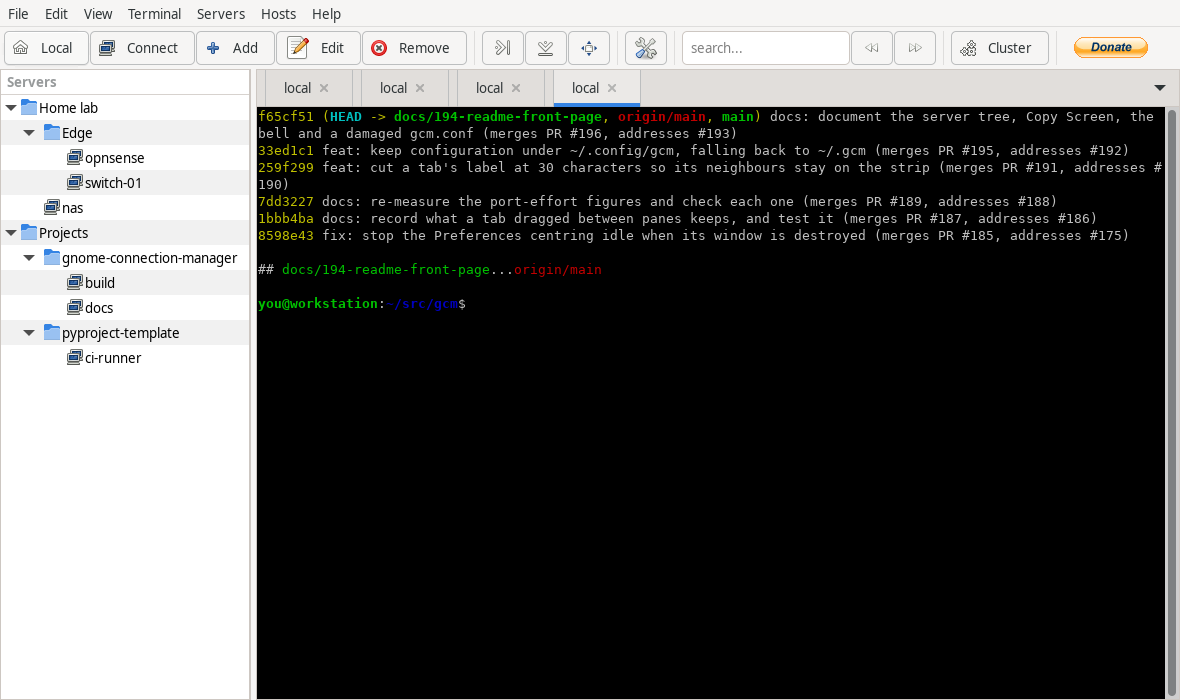
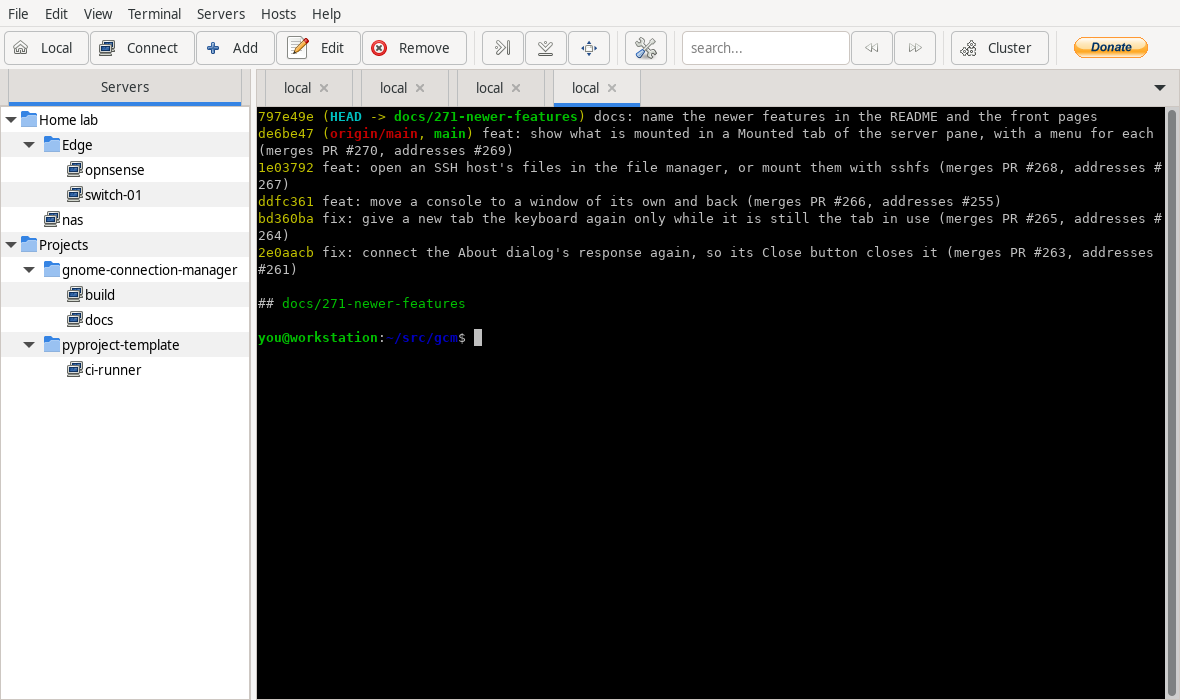
docs: name the newer features in the README and the front pages, and the packages they use (merges PR #272, addresses #271)
* docs: name the newer features in the README and the front pages

The guides gained a section for each feature as it landed, but the pages
that introduce GCM did not follow. The README's feature list now has a
host's files over SFTP and SSHFS with the Mounted tab, commands on this
computer, reconnecting a dropped session, Hide input in the cluster window,
snippets and console windows. A new table lists the optional programs those
features use, by Ubuntu 24.04 package, each package's binary checked with
apt-get download and dpkg -c.

The README, docs/index.md, AGENTS.md and the two guides' own descriptions
and opening paragraphs name the guides' current sections, and the table of
contents is regenerated from them. docs/index.md no longer calls GCM an SSH
and telnet manager alone.

docs/PROJECT_STRUCTURE.md and docs/DEVELOPING.md showed urlregex.py as the
only module under utils/; they show the layout as it is. DEVELOPING.md says
which packages the full test suite uses, matching CI's, what each is for and
what is skipped without it, and how to run the mount tests with an sshd
unpacked rather than installed, which was run as written.

Addresses #271

Claude-Session: https://claude.ai/code/session_01YPxNbzzpbdwWdvw6sU5RGL

* docs: retake the README screenshot with the server pane's Servers tab

The screenshot showed the server tree's column header, which the Servers
tab replaced. It is retaken as it was first taken: no window manager on a
[…]

Changed region(s): [[0.0, 0.09, 0.9763, 0.54], [0.2136, 0.48, 0.4271, 0.51], [0.2136, 0.42, 0.3966, 0.45]]

diff --git a/tests/test_docs.py b/tests/test_docs.py
@@ -12,6 +12,7 @@ import gettext
 import inspect
 import logging
 import re
+import tomllib
 import types
 from pathlib import Path
 
@@ -458,6 +459,34 @@ def test_no_doc_claims_the_test_suite_is_still_to_be_written():
 
     assert "- [ ] Add comprehensive test suite" not in structure, (
         "PROJECT_STRUCTURE.md still lists the test suite as unwritten"
+    )
+
+
+# The documents that say which Python GCM needs.
+_PYTHON_FLOOR_DOCS = (
+    "README.md",
+    "docs/index.md",
+    "docs/DEVELOPING.md",
+    "docs/PROJECT_STRUCTURE.md",
+)
+
+
+def test_every_python_floor_a_doc_states_is_pyprojects():
+    """`docs/PROJECT_STRUCTURE.md` said "Python: 3.8+" long after the floor went to 3.12,
+    which is what `pyproject.toml` requires and the README says."""
+    repo = Path(__file__).resolve().parents[1]
+    required = tomllib.loads((repo / "pyproject.toml").read_text())["project"]["requires-python"]
+    floor = re.fullmatch(r">=\s*(\d+\.\d+)", required)
+    assert floor, f"requires-python is {required!r}, not a floor this test can read"
+    stated: dict[str, list[str]] = {}
+    for relative in _PYTHON_FLOOR_DOCS:
+        body = (repo / relative).read_text(encoding="utf-8")
+        for version in re.findall(r"Python\W{0,6}(\d+\.\d+)\+", body):
+            stated.setdefault(version, []).append(relative)
+
+    assert stated, "no document says which Python GCM needs"
+    assert set(stated) == {floor.group(1)}, (
+        f"pyproject.toml requires Python {floor.group(1)}+, but the documents say {stated}"
     )
 
 

diff --git a/README.md b/README.md
@@ -1,8 +1,9 @@
 # Gnome Connection Manager (GCM)
 
-A tabbed SSH, telnet and local-shell manager for GTK 3 desktops. Keep your hosts in a
-folder tree, open them in tabs and split panes, and get sensible terminal behaviour —
-copy and paste that does not fight you, session logging, and shortcuts you can change.
+A tabbed SSH, telnet and local-shell manager for GTK 3 desktops, which keeps remote
+desktops, web consoles and any command line as hosts too. Keep your hosts in a folder
+tree, open them in tabs and split panes, and get sensible terminal behaviour — copy and
+paste that does not fight you, session logging, and shortcuts you can change.
 
 ![The GCM window: a folder tree of hosts on the left, four console tabs on the right](docs/images/screenshot.png)
 
@@ -26,7 +27,15 @@ Requires Python 3.12+ and GTK 3.
 - Passwords stored encrypted, plus private keys, SSH agent forwarding, X11 forwarding,
   compression and a keep-alive interval
 - Port forwarding per host: local forwards and dynamic (SOCKS) forwards, several at a time
-- Cluster mode: type once and send it to every console you have selected
+- An SSH host's files, opened over SFTP in your file manager, or mounted with SSHFS at
+  `~/mnt/<host name>`. A mounted host is ticked in the tree, and a **Mounted** tab beside
+  the tree lists every mount, to open or unmount
+- Commands run on this computer before connecting and after disconnecting, such as a VPN
+  brought up and taken down, with the host's values filled in
+- A dropped session reconnected by itself, a set number of times, when Preferences asks
+  for it
+- Cluster mode: type once and send it to every console you have selected, with **Hide
+  input** for a password
 - Commands sent automatically after login, with a delay syntax, and a checkbox that turns
   them off without discarding them
 
@@ -48,6 +57,10 @@ Requires Python 3.12+ and GTK 3.
   your editor
 - Drop files on a terminal to insert shell-quoted paths
 - Per-terminal font zoom, and tab labels that follow the program's title
+- Snippets: text you keep by name, in folders, typed into a console from a menu, a search
+  as you type, or a key of its own, with the host's values filled in and any value it
+  needs asked for first
+- A console moved to a window of its own, to keep it on another monitor, and back again
 - A tab you are not watching is marked when its output stops, when it rings the bell, or
   when its session ends, so an agent CLI working in another tab shows when it is done
 - Every shortcut configurable, plus custom byte sequences bound to keys of your choice
@@ -58,10 +71,13 @@ Requires Python 3.12+ and GTK 3.
 
 - [Using terminals in GCM](docs/TERMINAL-USAGE.md) — selection when an application has
   taken the mouse, what Copy All copies, pasting, session recording and transcripts, OSC 52,
-  the buffer viewer, tab titles, tabs that need your attention, font zoom, the shortcut
-  table, and what GCM does with a `gcm.conf` it cannot read
+  the buffer viewer, tab titles, consoles in windows of their own, typing into several
+  consoles at once, tabs that need your attention, sessions that end or drop, font zoom,
+  the shortcut table, snippets, and what GCM does with a `gcm.conf` it cannot read
 - [Hosts and folders in GCM](docs/HOSTS-AND-FOLDERS.md) — the server tree: making and moving
-  folders, putting it in the order you want, and what export and import carry
+  folders, putting it in the order you want, and what export and import carry; the host
+  dialog, commands on this computer, RDP, VNC, web and command hosts, and a host's files
+  over SFTP and SSHFS
 - [Developing](docs/DEVELOPING.md) and [Project structure](docs/PROJECT_STRUCTURE.md) — how
   to set up an environment, and what lives where
 - [Architecture decisions](docs/decisions/) — the records behind host ids and the folder tree
@@ -109,6 +125,21 @@ sudo apt install ./gnome-connection-manager_*_all.deb
 | `gir1.2-vte-2.91` | VTE terminal widget |
 | `python3-pyaes` | AES encryption for stored passwords |
 | `expect` | SSH password injection |
+
+### Optional programs
+
+Each is used by one kind of host or one feature, and GCM says what is missing when it is
+needed. Only `gir1.2-gtk-vnc-2.0` is installed with GCM, as a package it recommends, and
+not when apt is set to leave recommendations out.
+
+| Package (Ubuntu 24.04) | For |
+|---|---|
+| `freerdp3-x11` or `freerdp2-x11` | RDP hosts, through `xfreerdp3` or `xfreerdp` |
+| `gir1.2-gtk-vnc-2.0` | VNC hosts drawn in their tab |
+| `tigervnc-viewer` or `xtightvncviewer` | VNC hosts without gtk-vnc, through `xtigervncviewer` or `xtightvncviewer` |
+| `xdg-utils` | Web hosts and links, opened in your browser through `xdg-open` |
+| `sshfs` | **Mount with SSHFS** |
+| `nautilus` and `gvfs-backends`, or another file manager that opens `sftp:` addresses | **Open in File Manager**, and **Open Folder** and **Open over SFTP** in the **Mounted** tab |
 
 ---
 

diff --git a/docs/TABLE_OF_CONTENTS.md b/docs/TABLE_OF_CONTENTS.md
@@ -10,8 +10,8 @@ Complete index of all documentation, organized by audience and as a full alphabe
 ### Using GCM
 <!-- BEGIN:tag=gcm-guide -->
 - [Gnome Connection Manager](index.md) - What GCM is, and where to start reading
-- [Hosts and folders in GCM](HOSTS-AND-FOLDERS.md) - The server tree: making and moving folders, putting it in the order you want, what export and import carry, remote desktop hosts, and a host's files
-- [Using terminals in GCM](TERMINAL-USAGE.md) - Selection, copy and paste, session recording, OSC 52, the buffer viewer, tab titles, consoles in windows of their own, tabs that need your attention, font zoom, the shortcut table, a host's first connection, and what GCM does with a gcm.conf it cannot read
+- [Hosts and folders in GCM](HOSTS-AND-FOLDERS.md) - The server tree: making and moving folders, putting it in the order you want, and what export and import carry; the host dialog, commands on this computer, RDP, VNC, web and command hosts, and a host's files over SFTP and SSHFS
+- [Using terminals in GCM](TERMINAL-USAGE.md) - Selection, copy and paste, session recording, OSC 52, the buffer viewer, tab titles, consoles in windows of their own, typing into several consoles at once, tabs that need your attention, sessions that end or drop, font zoom, the shortcut table, snippets, a host's first connection, and what GCM does with a gcm.conf it cannot read
 <!-- END:tag=gcm-guide -->
 
 ### Working on GCM
@@ -111,7 +111,7 @@ this project's tooling is vendored from. "Users" here means users of the templat
 - [GitHub Repository Settings](development/github-repository-settings.md) - Complete reference for all GitHub repository settings the template expects
 - [Gnome Connection Manager](index.md) - What GCM is, and where to start reading
 - [Gnome Connection Manager - Modern Project Structure](PROJECT_STRUCTURE.md) - What lives where, and where the modernization work stands
-- [Hosts and folders in GCM](HOSTS-AND-FOLDERS.md) - The server tree: making and moving folders, putting it in the order you want, what export and import carry, remote desktop hosts, and a host's files
+- [Hosts and folders in GCM](HOSTS-AND-FOLDERS.md) - The server tree: making and moving folders, putting it in the order you want, and what export and import carry; the host dialog, commands on this computer, RDP, VNC, web and command hosts, and a host's files over SFTP and SSHFS
 - [install_tools Framework](development/install-tools-framework.md)
 - [Keeping Up to Date](template/updates.md) - Stay in sync with improvements to the pyproject-template
 - [LSP Tool and Diagnostic Noise](development/ai/lsp-tool.md) - What the LSP tool gives an AI agent, why pyright diagnostics arrive stale, and the two opt-outs agents can flip on themselves
@@ -125,7 +125,7 @@ this project's tooling is vendored from. "Users" here means users of the templat
 - [Template Management](template/manage.md) - Unified interface for creating projects, checking updates, and syncing
 - [Template Tools Reference](template/tools-reference.md) - Complete reference for all template tools in tools/pyproject_template/
 - [Tooling Roles and Architectural Boundaries](development/tooling-roles.md) - What each tool is for, who uses it, and where runtime code ends and dev tooling begins
-- [Using terminals in GCM](TERMINAL-USAGE.md) - Selection, copy and paste, session recording, OSC 52, the buffer viewer, tab titles, consoles in windows of their own, tabs that need your attention, font zoom, the shortcut table, a host's first connection, and what GCM does with a gcm.conf it cannot read
+- [Using terminals in GCM](TERMINAL-USAGE.md) - Selection, copy and paste, session recording, OSC 52, the buffer viewer, tab titles, consoles in windows of their own, typing into several consoles at once, tabs that need your attention, sessions that end or drop, font zoom, the shortcut table, snippets, a host's first connection, and what GCM does with a gcm.conf it cannot read
 - [Using This Template](template/index.md) - Overview of using pyproject-template for your Python projects
 <!-- END:all -->
 

diff --git a/docs/PROJECT_STRUCTURE.md b/docs/PROJECT_STRUCTURE.md
@@ -21,23 +21,44 @@ gnome-connection-manager/
 ├── .python-version         # Pin Python version (3.12.3)
 ├── .gitignore             # Comprehensive Python gitignore
 ├── dodo.py                # Task runner entry point (doit)
-├── DEVELOPING.md          # Developer guide
+├── AGENTS.md              # Notes for contributors and coding agents, module by module
 ├── src/
 │   └── gnome_connection_manager/
 │       ├── __init__.py           # Package root
 │       ├── __main__.py           # Entry point
 │       ├── main.py               # Application launcher
-│       ├── app.py                # Main application code
+│       ├── app.py                # Main application code: windows, dialogs, consoles
+│       ├── relay.py              # PTY relay for OSC 52 and raw recording, its own process
 │       ├── ui/                   # UI components (future)
-│       └── utils/
-│           └── urlregex.py
+│       └── utils/                # Logic with no widgets in it, tested without a display
+│           ├── activity.py       # When a console busy out of sight has gone quiet
+│           ├── configfile.py     # Reading gcm.conf and an export; what a save keeps
+│           ├── configpaths.py    # Which directory holds gcm.conf
+│           ├── connections.py    # The connection types, one class per kind of host
+│           ├── crypto.py         # Encryption of stored passwords
+│           ├── folders.py        # The folder tree hosts are filed under
+│           ├── hosts.py          # The host record, read from and written to gcm.conf
+│           ├── logpaths.py       # Session log names and layout, and tab labels
+│           ├── osc52.py          # OSC 52 clipboard writes found in a byte stream
+│           ├── placeholders.py   # A host's values filled into a command
+│           ├── remotefiles.py    # A host's files: its sftp:// address, sshfs mounts
+│           ├── shortcuts.py      # Custom keys, font scale, a snippet's key
+│           ├── snippets.py       # The snippet library
+│           ├── transcript.py     # A readable transcript from a raw recording
+│           ├── urlregex.py       # Link and file:line patterns
+│           └── vtehtml.py        # VTE's HTML export, for the buffer viewer
 ├── data/                  # Non-Python assets
 │   ├── ui/
 │   │   └── gnome-connection-manager.glade
 │   ├── scripts/
-│   │   └── ssh.expect
+│   │   ├── ssh.expect     # Types a stored password for ssh, telnet and FreeRDP
+│   │   └── gcm-askpass    # ssh's askpass, for a mount with a stored password
 │   ├── style.css
 │   └── icon.png
+├── docs/                  # The guides, this page, and the decision records
+├── tests/                 # The pytest suite
+├── tools/                 # build_mo.py, generate_doc_toc.py, the doit tasks (GCM's in
+│                          # doit/gcm.py), and the vendored hooks and template tooling
 └── lang/                  # Translations
 ```
 
@@ -123,7 +144,7 @@ sudo apt install python3-gi python3-gi-cairo gir1.2-gtk-3.0 gir1.2-vte-2.91 expe
 sudo dnf install python3-gobject gtk3 vte291 expect
 ```
 
-**Python:** 3.8+ (3.12.3 recommended)
+**Python:** 3.12+ (3.12.3 recommended)
 
 ### Benefits of New Structure
 

diff --git a/docs/DEVELOPING.md b/docs/DEVELOPING.md
@@ -22,12 +22,12 @@ gnome-connection-manager/
 │   ├── __main__.py               # CLI entry point
 │   ├── main.py                   # Application launcher
 │   ├── app.py                    # Main application (legacy code)
+│   ├── relay.py                  # PTY relay for OSC 52 and raw recording
 │   ├── ui/                       # UI components
-│   └── utils/                    # Utility modules
-│       └── urlregex.py          # URL patterns
+│   └── utils/                    # Logic with no widgets in it, a module per concern
 ├── data/                         # Non-code assets
 │   ├── ui/                      # Glade UI files
-│   ├── scripts/                 # Expect scripts
+│   ├── scripts/                 # The Expect script, and ssh's askpass for a mount
 │   └── style.css                # GTK CSS
 ├── lang/                         # Translations
 ├── tests/                        # Test suite
@@ -48,6 +48,11 @@ gnome-connection-manager/
    # Fedora
    sudo dnf install python3-gobject gtk3 vte291 expect
    ```
+
+   The programs some kinds of host and some features use, such as FreeRDP for RDP hosts
+   and `sshfs` for mounting a host's files, are optional. The README's
+   [Optional programs](../README.md#optional-programs) lists them, and
+   [Project structure](PROJECT_STRUCTURE.md) has each module.
 
 2. **uv** (Python package manager):
    ```bash
@@ -144,6 +149,37 @@ Note that WSLg exports `GDK_SCALE=2.25` and both `DISPLAY` and `WAYLAND_DISPLAY`
 private display drops all three: GTK prefers Wayland whenever `WAYLAND_DISPLAY` is set,
 and on X11 `GDK_SCALE` is applied rather than absorbed, which would report a 960x540
 workarea for a 1920x1080 screen.
+
+#### What the full suite needs
+
+CI installs these, beside the GTK packages and Xvfb above, and so runs every test (the
+`SYSTEM_PACKAGES` in `.github/workflows/ci.yml`):
+
+```bash
+sudo apt install gettext libxtst6 \
+    gir1.2-gtk-vnc-2.0 tigervnc-standalone-server tigervnc-tools x11-xserver-utils \
+    sshfs openssh-server
+```
+
+- `libxtst6` gives the tests that move the pointer and type their `libXtst.so.6`.
+- `gettext`'s `msgfmt` is what a translation test checks the fallback compiler against.
+  Without it, that test is skipped.
+- `tests/test_vnc.py` needs gtk-vnc's GObject bindings, TigerVNC's server and tools, and
+  `xsetroot` from `x11-xserver-utils`, and is skipped without them.
+- The mounts in `tests/test_host_files.py` need `sshfs`, FUSE, and an `sshd` with its
+  `sftp-server`, and are skipped without them. The tests run an `sshd` of their own, as
+  you, on 127.0.0.1, and look for it on `PATH`, then in `/usr/sbin` and `/sbin`.
+
+To run the mounts without installing an ssh server, unpack its packages and put them on
+`PATH`. The tests find `sftp-server` beside the `sshd` they run:
+
+```bash
+mkdir -p ~/tmp/sshd && cd ~/tmp/sshd
+apt-get download openssh-server openssh-sftp-server
+for deb in *.deb; do dpkg -x "$deb" root; done
+cd -
+PATH="$HOME/tmp/sshd/root/usr/sbin:$PATH" doit test
+```
 
 ### Building
 

diff --git a/docs/index.md b/docs/index.md
@@ -11,7 +11,8 @@ tags:
 
 # Gnome Connection Manager
 
-A tabbed SSH and telnet connection manager for GTK 3 desktop environments.
+A tabbed SSH, telnet and local-shell manager for GTK 3 desktop environments, which keeps
+remote desktops, web consoles and any command line as hosts too.
 
 Requires Python 3.12+ and GTK 3, with PyGObject and VTE supplied by the distribution
 rather than by pip — see [Developing](DEVELOPING.md) for the package list.
@@ -20,8 +21,8 @@ rather than by pip — see [Developing](DEVELOPING.md) for the package list.
 
 | | |
 |---|---|
-| [Terminal usage](TERMINAL-USAGE.md) | What happens inside a tab: selection, copy and paste, session recording and transcripts, OSC 52, the buffer viewer, tab titles, font zoom, the shortcut table, and what GCM does with a `gcm.conf` it cannot read |
-| [Hosts and folders](HOSTS-AND-FOLDERS.md) | The server tree: making and moving folders, putting it in order, and what export and import carry |
+| [Terminal usage](TERMINAL-USAGE.md) | What happens inside a tab: selection, copy and paste, session recording and transcripts, OSC 52, the buffer viewer, tab titles, consoles in windows of their own, typing into several consoles at once, tabs that need your attention, sessions that end or drop, font zoom, the shortcut table, snippets, and what GCM does with a `gcm.conf` it cannot read |
+| [Hosts and folders](HOSTS-AND-FOLDERS.md) | The server tree: making and moving folders, putting it in order, and what export and import carry; the host dialog, commands on this computer, RDP, VNC, web and command hosts, and a host's files over SFTP and SSHFS |
 | [Developing](DEVELOPING.md) | Setting up an environment, the task runner, and running the tests |
 | [Project structure](PROJECT_STRUCTURE.md) | What lives where |
 | [Specification](SPEC.md) | Behaviour the implementation is held to, written as a spec for a Qt 6 port that is **not** being built |

diff --git a/AGENTS.md b/AGENTS.md
@@ -445,12 +445,16 @@ Notes for future coding agents working on Gnome Connection Manager (GCM).
 ## Documentation
 - `docs/TERMINAL-USAGE.md` – user-facing, everything inside a tab: selection and what a
   word is, copy when nothing is selected, pasting, session logs and raw recording, OSC 52,
-  the buffer viewer, tab titles, the bell, font zoom, the shortcut table, a host's first
-  connection, and what GCM does with a `gcm.conf` it cannot read.
+  the buffer viewer, tab titles, consoles in windows of their own, the cluster window, the
+  bell and a tab's other marks, a session that ends or drops, font zoom, the shortcut
+  table, snippets, a host's first connection, and what GCM does with a `gcm.conf` it
+  cannot read.
 - `docs/HOSTS-AND-FOLDERS.md` – user-facing, everything in the server tree: making,
   renaming and deleting folders, what a drop does where, the order a folder keeps, host
-  ids, and export/import. Written because the only account of folders was `docs/SPEC.md`,
-  which specifies a Qt port that is not being built (#193).
+  ids, and export/import; then the host dialog, commands on this computer, each
+  connection type besides SSH and Telnet, and a host's files over SFTP and SSHFS, with the
+  Mounted tab. Written because the only account of folders was `docs/SPEC.md`, which
+  specifies a Qt port that is not being built (#193).
 - Every setting Preferences draws a control for must be named in one of those two, by its
   `gcm.conf` key or by its label. `tests/test_docs.py` enforces both directions now:
   guide to code, and code to guide against `UNDOCUMENTED_SETTINGS`, whose entries each

diff --git a/docs/TERMINAL-USAGE.md b/docs/TERMINAL-USAGE.md
@@ -1,6 +1,6 @@
 ---
 title: "Using terminals in GCM"
-description: "Selection, copy and paste, session recording, OSC 52, the buffer viewer, tab titles, consoles in windows of their own, tabs that need your attention, font zoom, the shortcut table, a host's first connection, and what GCM does with a gcm.conf it cannot read"
+description: "Selection, copy and paste, session recording, OSC 52, the buffer viewer, tab titles, consoles in windows of their own, typing into several consoles at once, tabs that need your attention, sessions that end or drop, font zoom, the shortcut table, snippets, a host's first connection, and what GCM does with a gcm.conf it cannot read"
 audience:
   - gcm-users
 tags:
@@ -16,7 +16,10 @@ tags:
 Copy, paste, selection and scrollback behave differently depending on what is running
 inside the tab. Most of what looks like broken copy/paste is a full-screen application
 holding the mouse, or the alternate screen having no scrollback of its own. This page
-covers both, plus the shortcut table and how to change it.
+covers both, and the rest of what happens in a tab: recording it, finding a console and
+moving it to a window of its own, typing into several consoles at once, what happens when
+a session ends or its connection drops, the shortcut table and how to change it, and
+snippets.
 
 `gcm.conf` is in `~/.config/gcm/` — or wherever `$XDG_CONFIG_HOME` points — on a new
 installation. One that already had `~/.gcm/` from an older version goes on using it, in

diff --git a/docs/HOSTS-AND-FOLDERS.md b/docs/HOSTS-AND-FOLDERS.md
@@ -1,6 +1,6 @@
 ---
 title: "Hosts and folders in GCM"
-description: "The server tree: making and moving folders, putting it in the order you want, what export and import carry, remote desktop hosts, and a host's files"
+description: "The server tree: making and moving folders, putting it in the order you want, and what export and import carry; the host dialog, commands on this computer, RDP, VNC, web and command hosts, and a host's files over SFTP and SSHFS"
 audience:
   - gcm-users
 tags:
@@ -14,8 +14,11 @@ tags:
 
 The panel on the left is the server tree: folders, and the hosts filed under them. This
 page covers making folders, moving things between them, putting them in the order you
-want, what a host carries with it when you export or import, hosts that open a remote
-desktop, and opening an SSH host's files.
+want, and what a host carries with it when you export or import. Then the hosts
+themselves: the host dialog, commands a host runs on this computer before connecting and
+after disconnecting, the kinds of host besides a terminal session (RDP and VNC desktops,
+web pages, and command lines of your own), and an SSH host's files, opened over SFTP or
+mounted with SSHFS and listed in the Mounted tab.
 
 Every host lives in a folder. There is no such thing as a host at the top level — a drop
 there is refused — so the first thing a new installation needs is a folder.

diff --git a/CHANGELOG.md b/CHANGELOG.md
@@ -12,6 +12,12 @@ the git log.
 ## [Unreleased]
 
 ### Added
+- The README lists the features the guides gained since its list was written: a host's
+  files over SFTP and SSHFS with the Mounted tab, commands on this computer, reconnecting
+  a dropped session, **Hide input**, snippets and console windows. A table gives the
+  optional programs they use, by Ubuntu package. The developing guide says which packages
+  the full test suite uses and what is skipped without each, the layout pages show every
+  module, and the screenshot shows the server pane's Servers tab.
 - A **Mounted** tab beside the server tree, while anything is mounted with SSHFS in
   `~/mnt`: each mount, by its host's name, to open in the file manager as a folder or over
   SFTP, or to unmount, from its menu, and a double-click opens its folder. The tree has a
